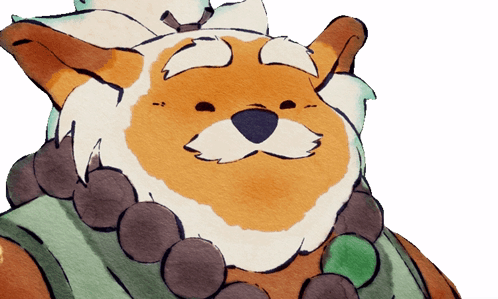
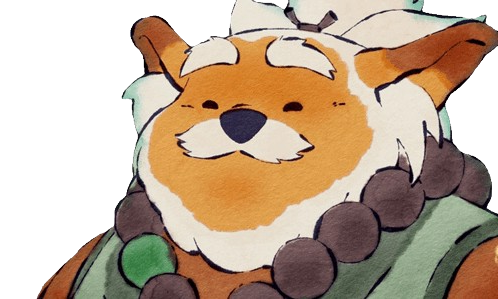
header fixed

diff --git a/kobukos-brewery/app/(tabs)/index.tsx b/kobukos-brewery/app/(tabs)/index.tsx
@@ -15,7 +15,7 @@ export default function HomeScreen() {
     <ParallaxScrollView
       headerBackgroundColor={{ light: '#8da68c', dark: '#8da68c' }}
       headerImage={
-        <View style={{ flexDirection: 'row', alignItems: 'center', justifyContent: 'center', width: '100%' }}>
+        <View style={{ flexDirection: 'row', alignItems: 'center', justifyContent: 'flex-start', width: '100%' }}>
           <Image
             source={require('@/assets/images/Kobuko.png')}
             style={styles.reactLogo}
@@ -28,6 +28,10 @@ export default function HomeScreen() {
                   Crafted with passion in Bandle City
                 </ThemedText>
           </View>
+          <Image
+            source={require('@/assets/images/Kobuko2.png')}
+            style={styles.reactLogo}
+          />
         </View>
       }
     >
